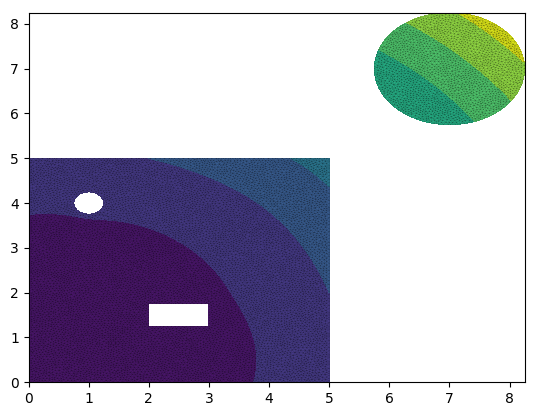
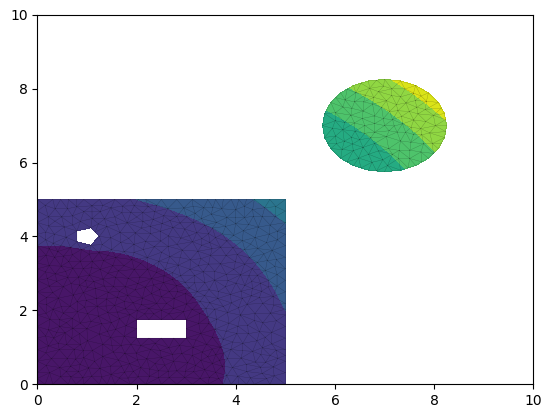
Summary_2

diff --git a/gen_mesh_1.py b/gen_mesh_1.py
@@ -8,7 +8,7 @@ domain =  mshr.Rectangle(fenics.Point(0., 0.), fenics.Point(5., 5.)) \
          - mshr.Circle(fenics.Point(1, 4), .25) \
          + mshr.Circle(fenics.Point(7, 7), 1.25)
 
-mesh = mshr.generate_mesh(domain, 132)
+mesh = mshr.generate_mesh(domain, 32)
 
 V = fenics.FunctionSpace(mesh, 'P', 1)
 
@@ -46,6 +46,9 @@ cm = plb.get_cmap('viridis')
 
 ax.tricontourf(x, y, t, v, 10, cmap = cm)
 ax.triplot(x, y, t, '-', color='k', lw=0.2, alpha=0.4)
+
+plb.ylim(0, 10)
+plb.xlim(0, 10)
 
 # Output in the file
 print("Lenear_Poisson.png")
